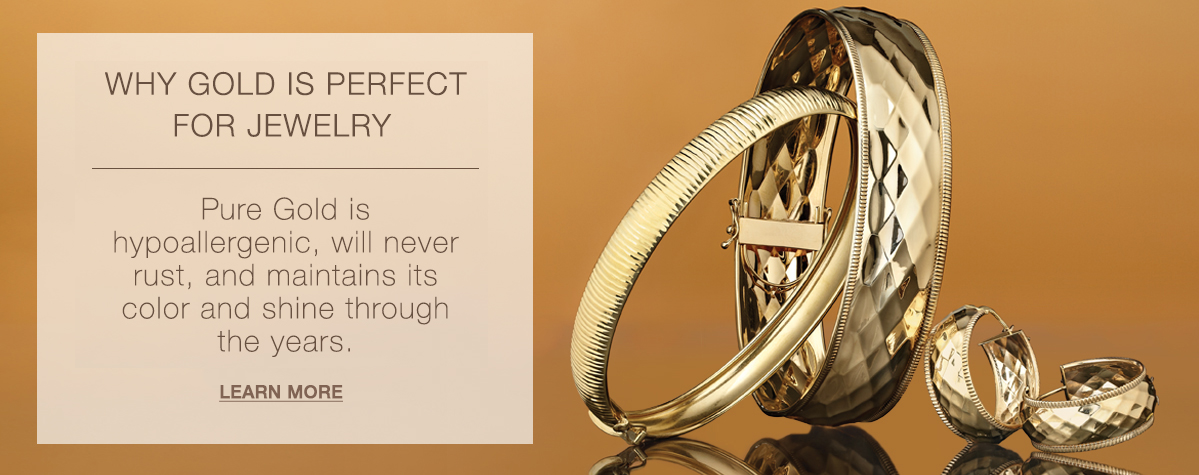
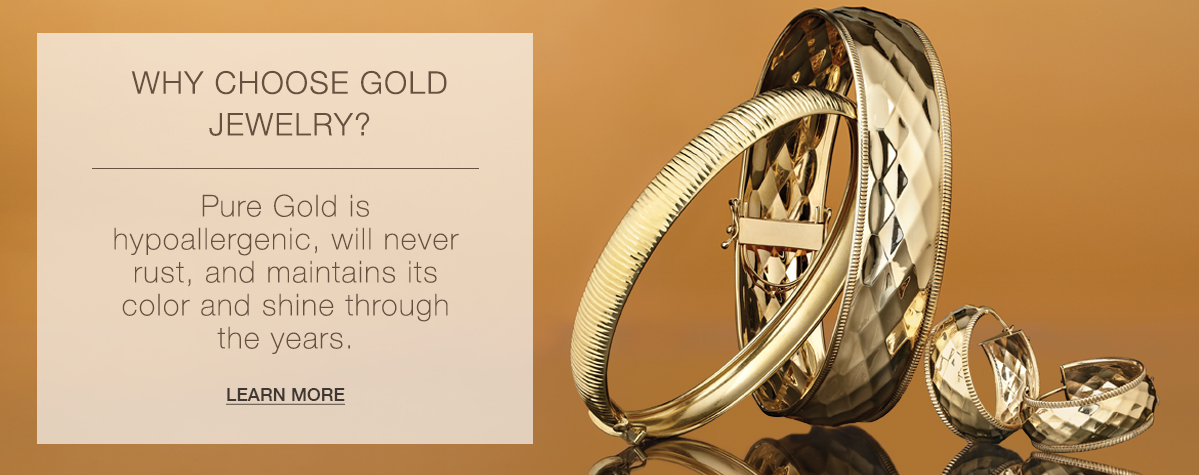
created new images for the home education section

diff --git a/index.php b/index.php
@@ -11,7 +11,7 @@
   require_once('header.php');
 ?>
           <div class="container-fluid noPadding dropShadowMain" id="home" style="max-width: 1200px;">
-            <div id="mainCarousel" class="carousel slide" data-ride="carousel" style="z-index: 500;">
+            <div id="mainCarousel" class="carousel slide hidden-xs" data-ride="carousel" style="z-index: 500;">
               <ol class="carousel-indicators" >
                 <li data-target="#mainCarousel" data-slide-to="0" class="active"></li>
                 <li data-target="#mainCarousel" data-slide-to="1"></li>
